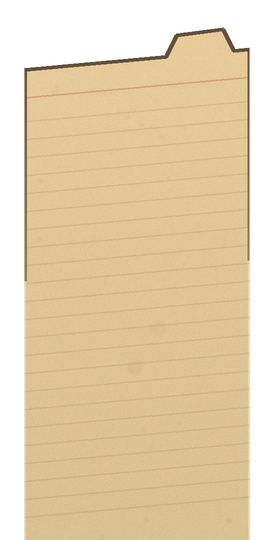
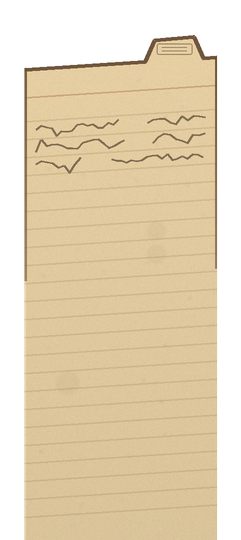
Cover the whole drawer with nine decorated catalogue cards
The stack is now nine cards deep so every spot in the drawer pulls a
card, with hover bands tiling the full width of the stack. Each card is
dressed like a real catalogue entry: tab with a tiny label, sepia accent
rule, cursive handwriting lines, and a faded round stamp on every third
card.

diff --git a/src/components/OrganizationSpecimen.jsx b/src/components/OrganizationSpecimen.jsx
@@ -1,19 +1,22 @@
 import { useState } from "react";
 import { Image } from "@/components/ui/image";
-import { CARDS, FRONT, PULL, SPRITES } from "@/data/organization";
+import { CARDS, FRONT, PULL, SPRITES, STACK_BACK, STACK_LEFT } from "@/data/organization";
 import card1 from "@/assets/orgcards/card-1.png";
 import card2 from "@/assets/orgcards/card-2.png";
 import card3 from "@/assets/orgcards/card-3.png";
 import card4 from "@/assets/orgcards/card-4.png";
 import card5 from "@/assets/orgcards/card-5.png";
 import card6 from "@/assets/orgcards/card-6.png";
+import card7 from "@/assets/orgcards/card-7.png";
+import card8 from "@/assets/orgcards/card-8.png";
+import card9 from "@/assets/orgcards/card-9.png";
 
 // The organisation plate: the open card-catalogue drawer, kept exactly as drawn.
 // The cards in it are the drawing's own paper, re-rendered as separate pieces;
-// passing the cursor through the drawer pops each card up out of it, and the
-// drawer's wooden front cuts it off at the same line that hides it in the
-// drawing. Leave it, and it slides home.
-const CARD_IMAGES = [card1, card2, card3, card4, card5, card6];
+// passing the cursor anywhere through the drawer pulls that card up out of it,
+// and the drawer's wooden front cuts it off at the same line that hides it in
+// the drawing. Leave it, and it slides home.
+const CARD_IMAGES = [card1, card2, card3, card4, card5, card6, card7, card8, card9];
 
 // y of the drawer line at a given x, following the measured polyline
 // (extended with its end slopes beyond the measured span)
@@ -24,8 +27,14 @@ const frontY = (x) => {
   return seg(FRONT[1], FRONT[2]); // front rim (extended right)
 };
 
-// the region above that line, extended to the plate's edges — the only place a
-// pulled card may show
+// x of the stack's stepped left boundary at a given y
+const stackLeftX = (y) =>
+  STACK_LEFT[0][0] +
+  ((y - STACK_LEFT[0][1]) * (STACK_LEFT[1][0] - STACK_LEFT[0][0])) /
+    (STACK_LEFT[1][1] - STACK_LEFT[0][1]);
+
+// the region above the drawer line, extended to the plate's edges — the only
+// place a pulled card may show
 const VISIBLE = `polygon(0% 0%, 100% 0%, 100% ${frontY(1) * 100}%, ${FRONT[2][0] * 100}% ${
   FRONT[2][1] * 100
 }%, ${FRONT[1][0] * 100}% ${FRONT[1][1] * 100}%, ${FRONT[0][0] * 100}% ${
@@ -49,12 +58,23 @@ export default function OrganizationSpecimen({ plate, alt }) {
     const rest = Math.max(...span.map(clearance)) + 0.012;
     const shift = lifted === i ? -PULL : rest;
 
-    // its hover band runs from its own top edge to the next card's (or, for the
-    // front card, down to the drawer's front edge)
-    const next = CARDS[i + 1];
-    const zone = next
-      ? [tl, tr, next[1], next[0]]
-      : [tl, tr, [tr[0], frontY(tr[0]) + 0.004], [tl[0], frontY(tl[0]) + 0.004]];
+    // its hover band is its own visible face: from the card behind's edge down
+    // to its own, stretched across the full width of the drawer so no spot of
+    // the stack is dead — the front card's band runs on to the rim, the back
+    // card's starts at the drawer's opening
+    const prev = CARDS[i - 1];
+    const topY = prev ? (prev[0][1] + prev[1][1]) / 2 : STACK_BACK;
+    const botY =
+      i === CARDS.length - 1
+        ? Math.max(frontY(tl[0]), frontY(tr[0])) - 0.006
+        : (tl[1] + tr[1]) / 2;
+    const right = tr[0] + 0.012;
+    const zone = [
+      [stackLeftX(topY) - 0.006, topY],
+      [right, topY],
+      [right, botY],
+      [stackLeftX(botY) - 0.006, botY],
+    ];
 
     return { zone, shift, sprite: CARD_IMAGES[i], place: SPRITES[i] };
   });
@@ -95,7 +115,7 @@ export default function OrganizationSpecimen({ plate, alt }) {
         ))}
       </div>
 
-      {/* invisible hover bands lying on the drawn cards */}
+      {/* invisible hover bands tiling the whole drawer */}
       {cards.map((card, i) => (
         <div
           key={i}

diff --git a/src/data/organization.js b/src/data/organization.js
@@ -1,10 +1,10 @@
-// Measured from the catalogue plate itself: the open drawer's front edge, and the
+// Measured from the catalogue plate itself: the open drawer's rim, and the
 // top edge of every card standing in the drawer — each card a line stepping
 // down-right toward the viewer, just as drawn.
 
-// the line that hides the cards, measured on the plate: from the back of the
-// drawer's left wall, to the front-left corner, then along the front panel's
-// top rim to the front-right corner — anything below is inside the drawer
+// the line that hides the cards: from the back of the drawer's left wall, to
+// the front-left corner, then along the front panel's top rim to the
+// front-right corner — anything below is inside the drawer
 export const FRONT = [
   [0.3799, 0.458], // left wall, up toward the back
   [0.4395, 0.5195], // front-left corner of the drawer
@@ -13,6 +13,18 @@ export const FRONT = [
 
 // each card's top edge: [left end], [right end], back card first
 export const CARDS = [
+  [
+    [0.39, 0.406],
+    [0.484, 0.4],
+  ],
+  [
+    [0.395, 0.415],
+    [0.496, 0.408],
+  ],
+  [
+    [0.4, 0.423],
+    [0.507, 0.415],
+  ],
   [
     [0.408, 0.432],
     [0.518, 0.422],
@@ -42,6 +54,9 @@ export const CARDS = [
 // where each rendered card sprite sits on the plate (left, top, width, as
 // fractions of the plate) — the sprites are drawn from the plate's own paper
 export const SPRITES = [
+  { left: 0.378, top: 0.372, width: 0.118 },
+  { left: 0.383, top: 0.381, width: 0.125 },
+  { left: 0.388, top: 0.389, width: 0.131 },
   { left: 0.396, top: 0.398, width: 0.1338 },
   { left: 0.416, top: 0.409, width: 0.1475 },
   { left: 0.435, top: 0.421, width: 0.1631 },
@@ -53,3 +68,11 @@ export const SPRITES = [
 // how far a card travels up out of the drawer when the cursor takes it, as a
 // fraction of the plate's width
 export const PULL = 0.15;
+
+// the stack's left boundary (the card corners stepping down-right) and the
+// back edge of the drawer opening — the hover bands fill everything between
+export const STACK_LEFT = [
+  [0.386, 0.404],
+  [0.503, 0.481],
+];
+export const STACK_BACK = 0.396;
